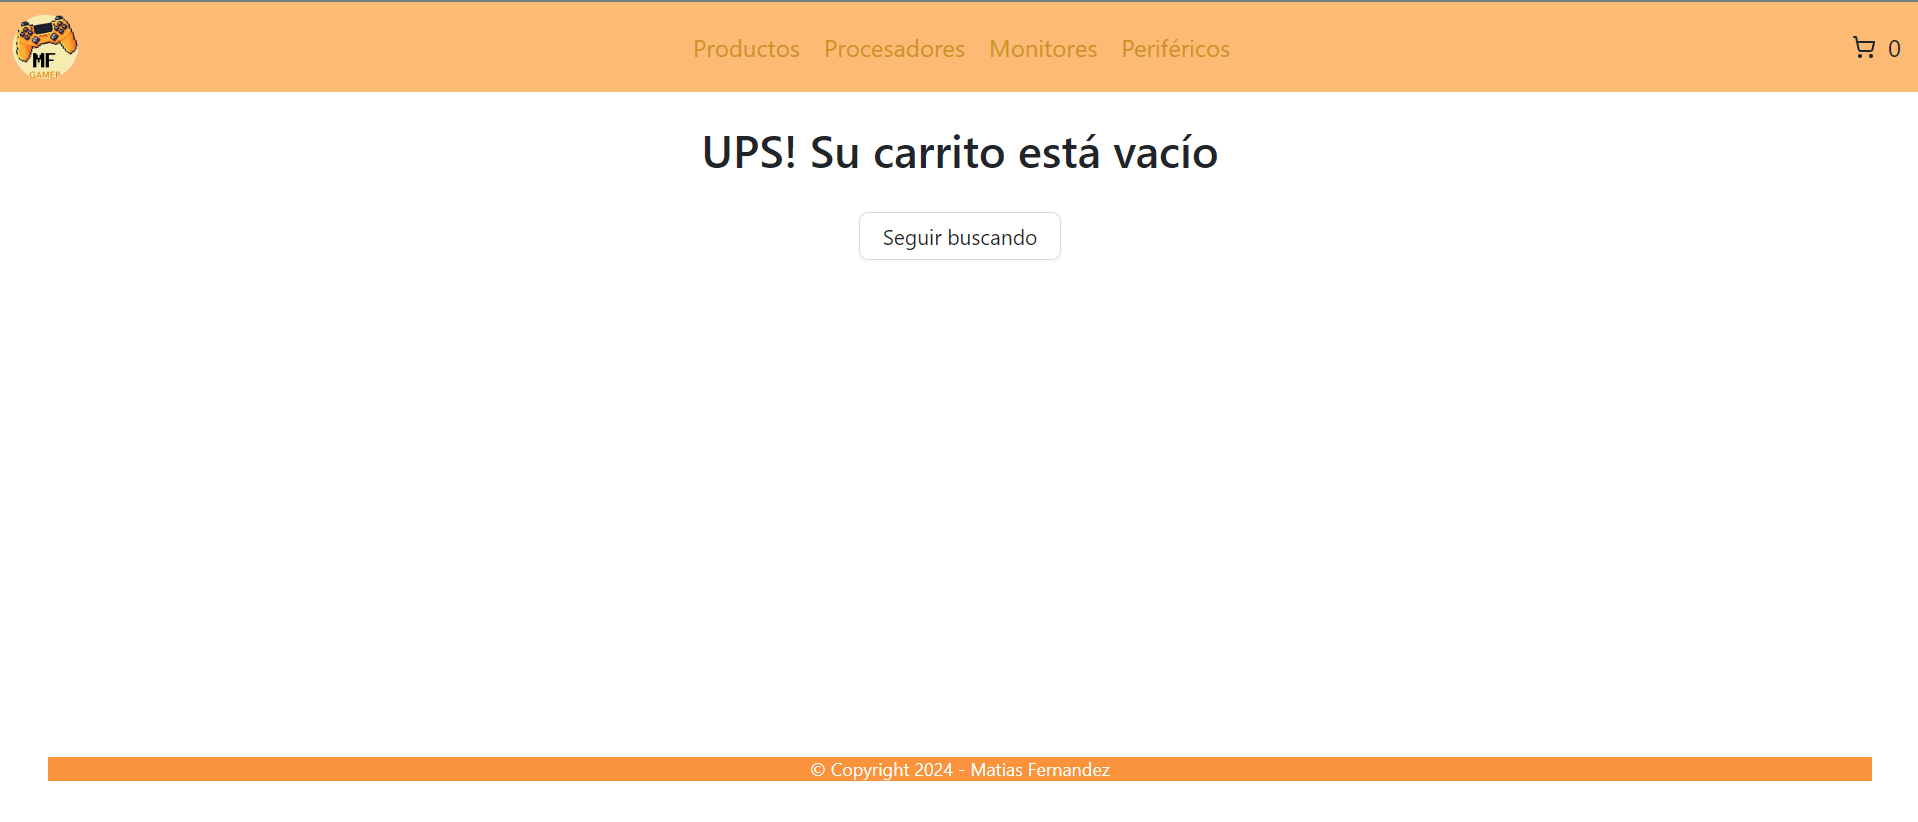
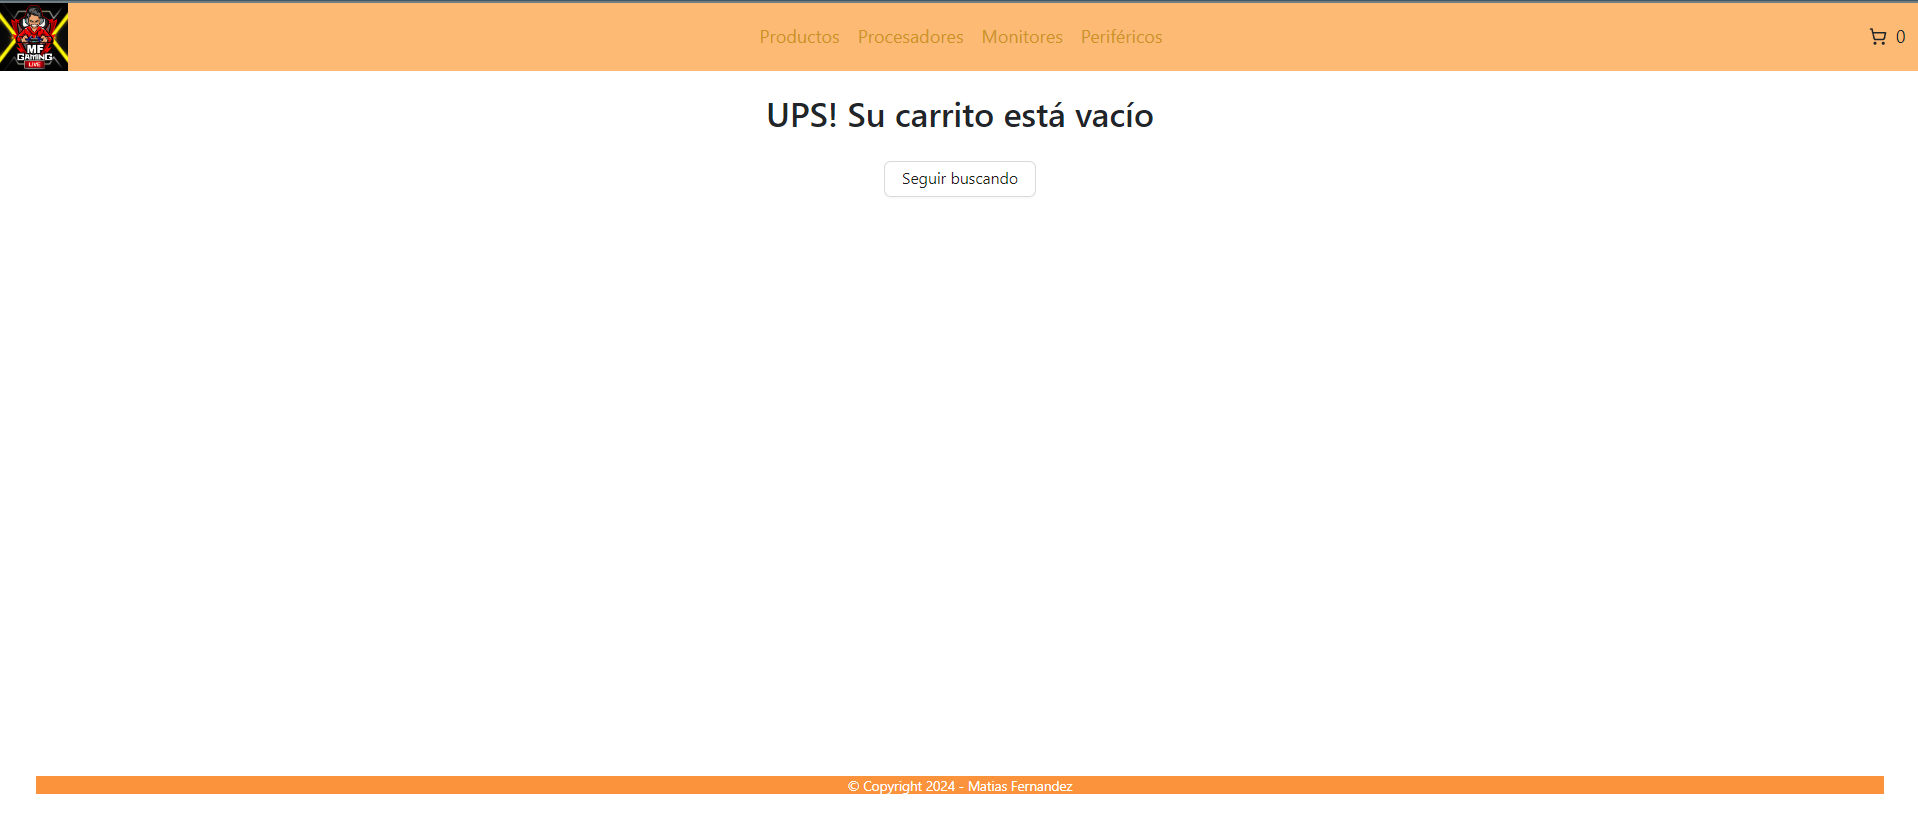
Ultimos detalles

Changed region(s): [[0.0, 0.0, 1.0, 0.2433], [0.0, 0.9124, 0.9844, 0.9732], [0.4614, 0.2737, 0.5537, 0.3041]]

diff --git a/index.html b/index.html
@@ -5,7 +5,7 @@
     <link rel="icon" type="image/svg+xml" href="./src/multimedia/favicon.png" />
     <meta name="viewport" content="width=device-width, initial-scale=1.0" />
     <link href="https://cdn.jsdelivr.net/npm/bootstrap@5.3.2/dist/css/bootstrap.min.css" rel="stylesheet" integrity="sha384-T3c6CoIi6uLrA9TneNEoa7RxnatzjcDSCmG1MXxSR1GAsXEV/Dwwykc2MPK8M2HN" crossorigin="anonymous">
-    <title>MF Gamer</title>
+    <title>MF Gaming</title>
   </head>
   <body>
     <div id="root" class="h-[100dvh] flex flex-col"></div>

diff --git a/README.md b/README.md
@@ -1,6 +1,6 @@
 # Proyecto Final de React JS de CoderHouse
 
-Soy Matias Fernandez y vengo a presentarles mi proyecto "MF Gamer". El mismo es un eCommerce de componentes de computadoras, el cual está desarrollado utilizando React con JavaScript y me permite ver una plataforma para comprar una variedad de componentes gamers. 
+Soy Matias Fernandez y vengo a presentarles mi proyecto "MF Gaming". El mismo es un eCommerce de componentes de computadoras, el cual está desarrollado utilizando React con JavaScript y permite ver una plataforma para comprar una variedad de componentes gamers. 
 
 ## Tabla de Contenidos
 
@@ -30,7 +30,7 @@ Soy Matias Fernandez y vengo a presentarles mi proyecto "MF Gamer". El mismo es 
 ## Uso de la App
 Una vez instalado e iniciado el proyecto, podrás ver la página web MF Gamer. En la cual vas a poder navegar por la tienda de componentes gamer, buscar por categoria, ver el detalle de cada componente, agregar productos al carrito y generar una compra desde el carrito. 
 
-## Características
+## Características Principales
 
 - Filtrado de componentes de computadoras por categoria.
 - Funcionalidad de carrito de compra para agregar y eliminar productos.
@@ -40,14 +40,14 @@ Una vez instalado e iniciado el proyecto, podrás ver la página web MF Gamer. E
 ## Tecnologías Implementadas
 He implementado una gran variedad de tecnologías con el propósito de generar una plataforma que ofrezca una experiencia de compra fluida y tambíen que sea atractiva. A continuación detallaré las principales tecnologías utilizadas en el proyecto "MF Gamer": 
 
-- [React](https://reactjs.org/): Una biblioteca de JavaScript para construir interfaces de usuario.
-- [React Router](https://reactrouter.com/): Un enrutador para aplicaciones React que permite la navegación declarativa y basada en componentes.
-- [Firebase](https://firebase.google.com/): Una plataforma que me ofrece la posibilidad de generar una Base de Datos, en la cual he agregado todos los productos disponibles.
 - [Ant Design](https://ant.design/): Una biblioteca de componentes de IU para React que ofrece una amplia gama de componentes listos para usar.
+- [Bootstrap](https://getbootstrap.com/): Un framework que permite construir páginas web responsives de una forma más rápida y sencilla.
+- [React](https://reactjs.org/): Una biblioteca de JavaScript para construir interfaces de usuario.
+- [Firebase](https://firebase.google.com/): Una plataforma que me ofrece la posibilidad de generar una Base de Datos, en la cual he agregado todos los productos disponibles.
+- [Lucide-React](https://lucide.dev/guide/packages/lucide-react): Es una biblioteca de iconos de código abierto diseñada para ser simple y fácil de usar. 
+- [React Router](https://reactrouter.com/): Un enrutador para aplicaciones React que permite la navegación declarativa y basada en componentes.
 - [React Toastify](https://fkhadra.github.io/react-toastify/introduction): Una biblioteca que  e permite mostrar notificaciones estilo toast en aplicaciones React.
 - [Tailwind CSS](https://tailwindcss.com/): Un marco de trabajo CSS utilitario que permite construir rápidamente interfaces de usuario personalizadas.
-- [Bootstrap](https://getbootstrap.com/): Un framework que permite construir páginas web responsives de una forma más rápida y sencilla.
-- [Lucide-React](https://lucide.dev/guide/packages/lucide-react): Es una biblioteca de iconos de código abierto diseñada para ser simple y fácil de usar. 
 
 Cabe destacar que cada una de estas bibliotecas y herramientas tienen su propio proceso de instalación, los cuales estan detallados en cada una de sus páginas principales.
 
@@ -59,7 +59,7 @@ A continuación dejo una breve explicación de cada componente creado y utilizad
 
 ### App
 
-El componente `App` es el componente principal de la aplicación. Utiliza React Router (`BrowserRouter`, `Routes`, `Route`) para manejar la navegación entre diferentes páginas de la aplicación. A continuación, se describen los componentes principales utilizados en `App`:
+El componente `App` es el componente principal de la aplicación. Utiliza React Router (`BrowserRouter`, `Routes`, `Route`) para manejar la navegación entre diferentes páginas de la aplicación. Por una cuestion de orden, en el componente `App` aloje los componentes `Header`, `Main` y `Footer`. Y los demás componentes dentro de estos.
 
 ### Header
 El componente `Header` solo se utiliza para alojar el componente `NavBar`, lo he implementado a modo de dar un mejor orden al código.
@@ -77,13 +77,13 @@ Este componete lo he utilizado para generar todas los links para navegar por la 
 
 ### ItemListContainer 
 Este componente muestra una lista de productos disponibles para la venta. A continuación se describen sus características principales:
-- **Consulta a Firebase**: Utiliza Firebase para obtenerlos datos de los productos desde una colección en la basede datos. Dependiendo del parámetro de URL `categoria`, se filtran los productos por categoria.
+- **Consulta a Firebase**: Utiliza Firebase para obtener los datos de los productos desde una colección en la base de datos. Dependiendo del parámetro de URL `categoria`, se filtran los productos por categoria.
 - **Renderizado Condicional**: Muestra la lista de productos utilizando el componente `ItemList` cuando los datos están disponibles.
 
 ### ItemDetailContainer 
 Este componente muestra los detalles de un producto específico. Recibe un `itemId` como parámetro de URL y muestra la información detallada del producto, como su nombre, precio y descripción:
 - **Consulta a Firebase**: Utiliza Firebase para obtener los datos de un producto específico desde la base de datos.
-- **Renderizado Condicional**: Muestra los detalles del producto utilizando el componente `ItemDetail` cuando losdatos están disponibles.
+- **Renderizado Condicional**: Muestra los detalles del producto utilizando el componente `ItemDetail` cuando los datos están disponibles.
 
 ### Cart 
 El componente `Cart` muestra el contenido del carrito de compras. Permite al usuario ver los productos que ha agregado al carrito y realizar acciones como eliminar productos y proceder al proceso de Finalizar compra.
@@ -117,20 +117,26 @@ Para realizar el Deploy de mi proyecto "MF Gamer" he utilizado el repositorio de
 **Link:**
 [Proyecto Final ReactJS](https://proyecto-final-fernandez-sooty.vercel.app/)
 
-### Capturas de imágenes:
+### Capturas de imágenes sobre:
 
 #### Pantalla Principal
 ![Captura Principal](/src/multimedia/PaginaPrincipal.png)
 #### Detalle de Producto
 ![Captura Detalle](/src/multimedia/CapturaDetalle.png)
+#### Carrito Vacío
+![Carrito Vacio](/src/multimedia/CapturaCarritoVacio.png)
 #### Carrito de Compras
 ![Captura Carrito](/src/multimedia/CapturaCarrito.png)
-#### Checkout
+#### Formulario de Compra
 ![Captura Checkout](/src/multimedia/CapturaCheckOut.png)
 #### Compra Finalizada
 ![Compra Finalizada](/src/multimedia/CapturaCompra.png)
-#### Carrito Vacío
-![Carrito Vacio](/src/multimedia/CapturaCarritoVacio.png)
+#### NavBar en pantalla chica
+![NavBarChica](/src/multimedia/CapturaNavBar%20chica.png)
+#### NavBar Hamburguesa
+![Navbar](/src/multimedia/CapturaMenuHamburguesa.png)
+
+
 
 ---
 *© 2024 - Matias Fernandez. Todos los derechos reservados.*
